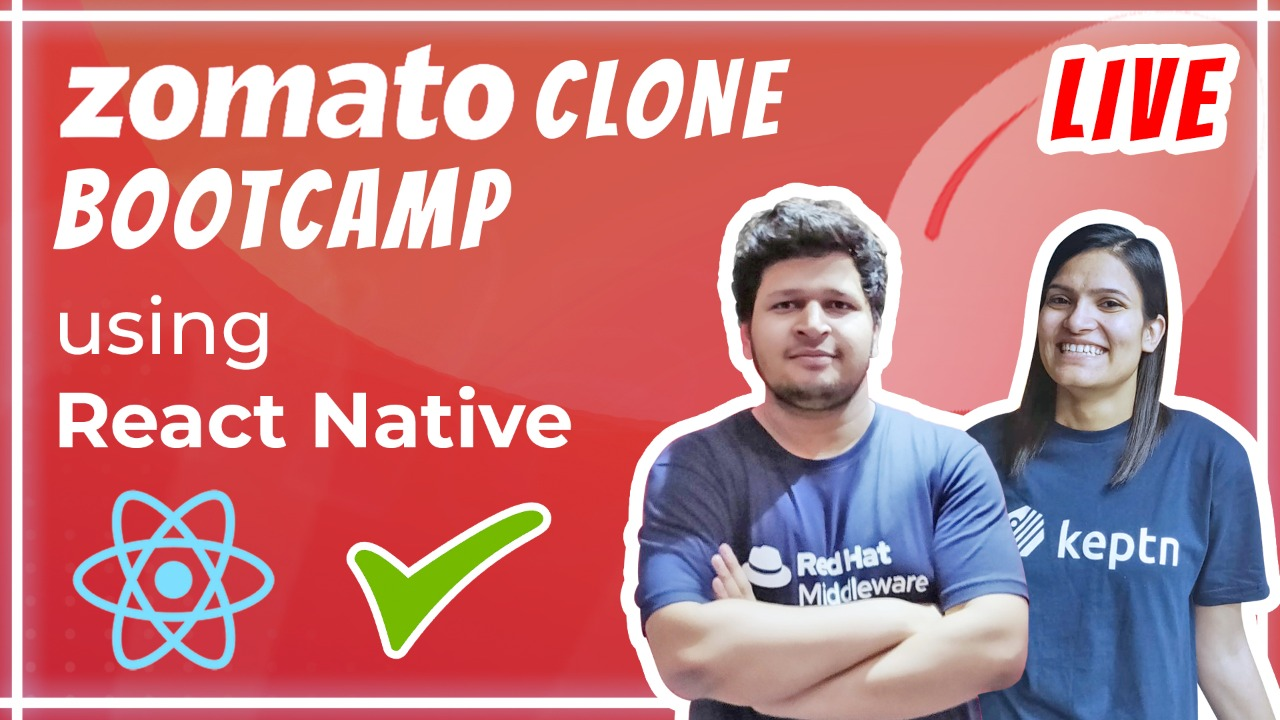
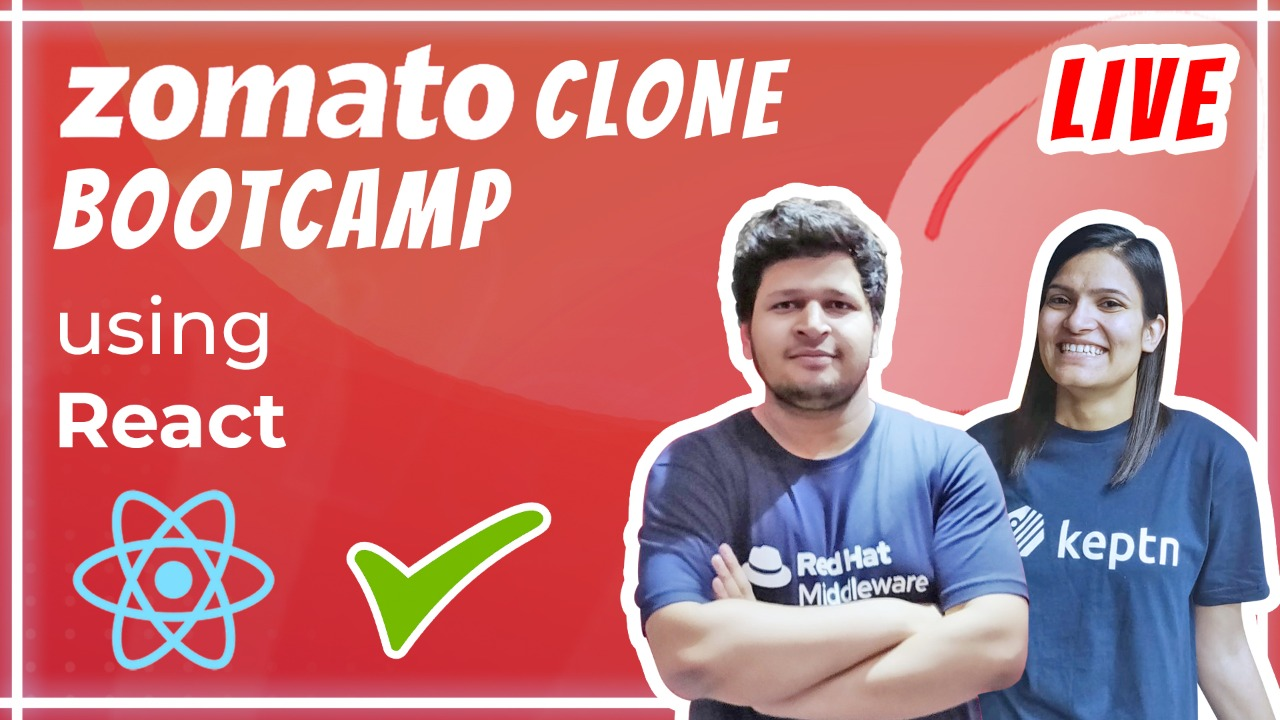
update bootcamp link

Changed region(s): [[0.2188, 0.5194, 0.4688, 0.6417]]

diff --git a/src/data/HomeViewData/HomeViewData.js b/src/data/HomeViewData/HomeViewData.js
@@ -29,11 +29,11 @@ export const events = [
 // Bootcamps data
 export const bootcamps = [
   {
-    domain: 'React Native',
-    link: 'https://rzp.io/l/zomatoclone',
+    domain: 'React',
+    link: '/zomato-clone-with-react-js',
     type: 'Bootcamp',
     title:
-      'Learn to make a Zomato Clone in our week long React Native Bootcamp',
+      'Learn to make a Zomato Clone in our week long React Bootcamp',
     timeBelow: '1-7 March',
     image: '/static/temp/rn.jpeg'
   },
